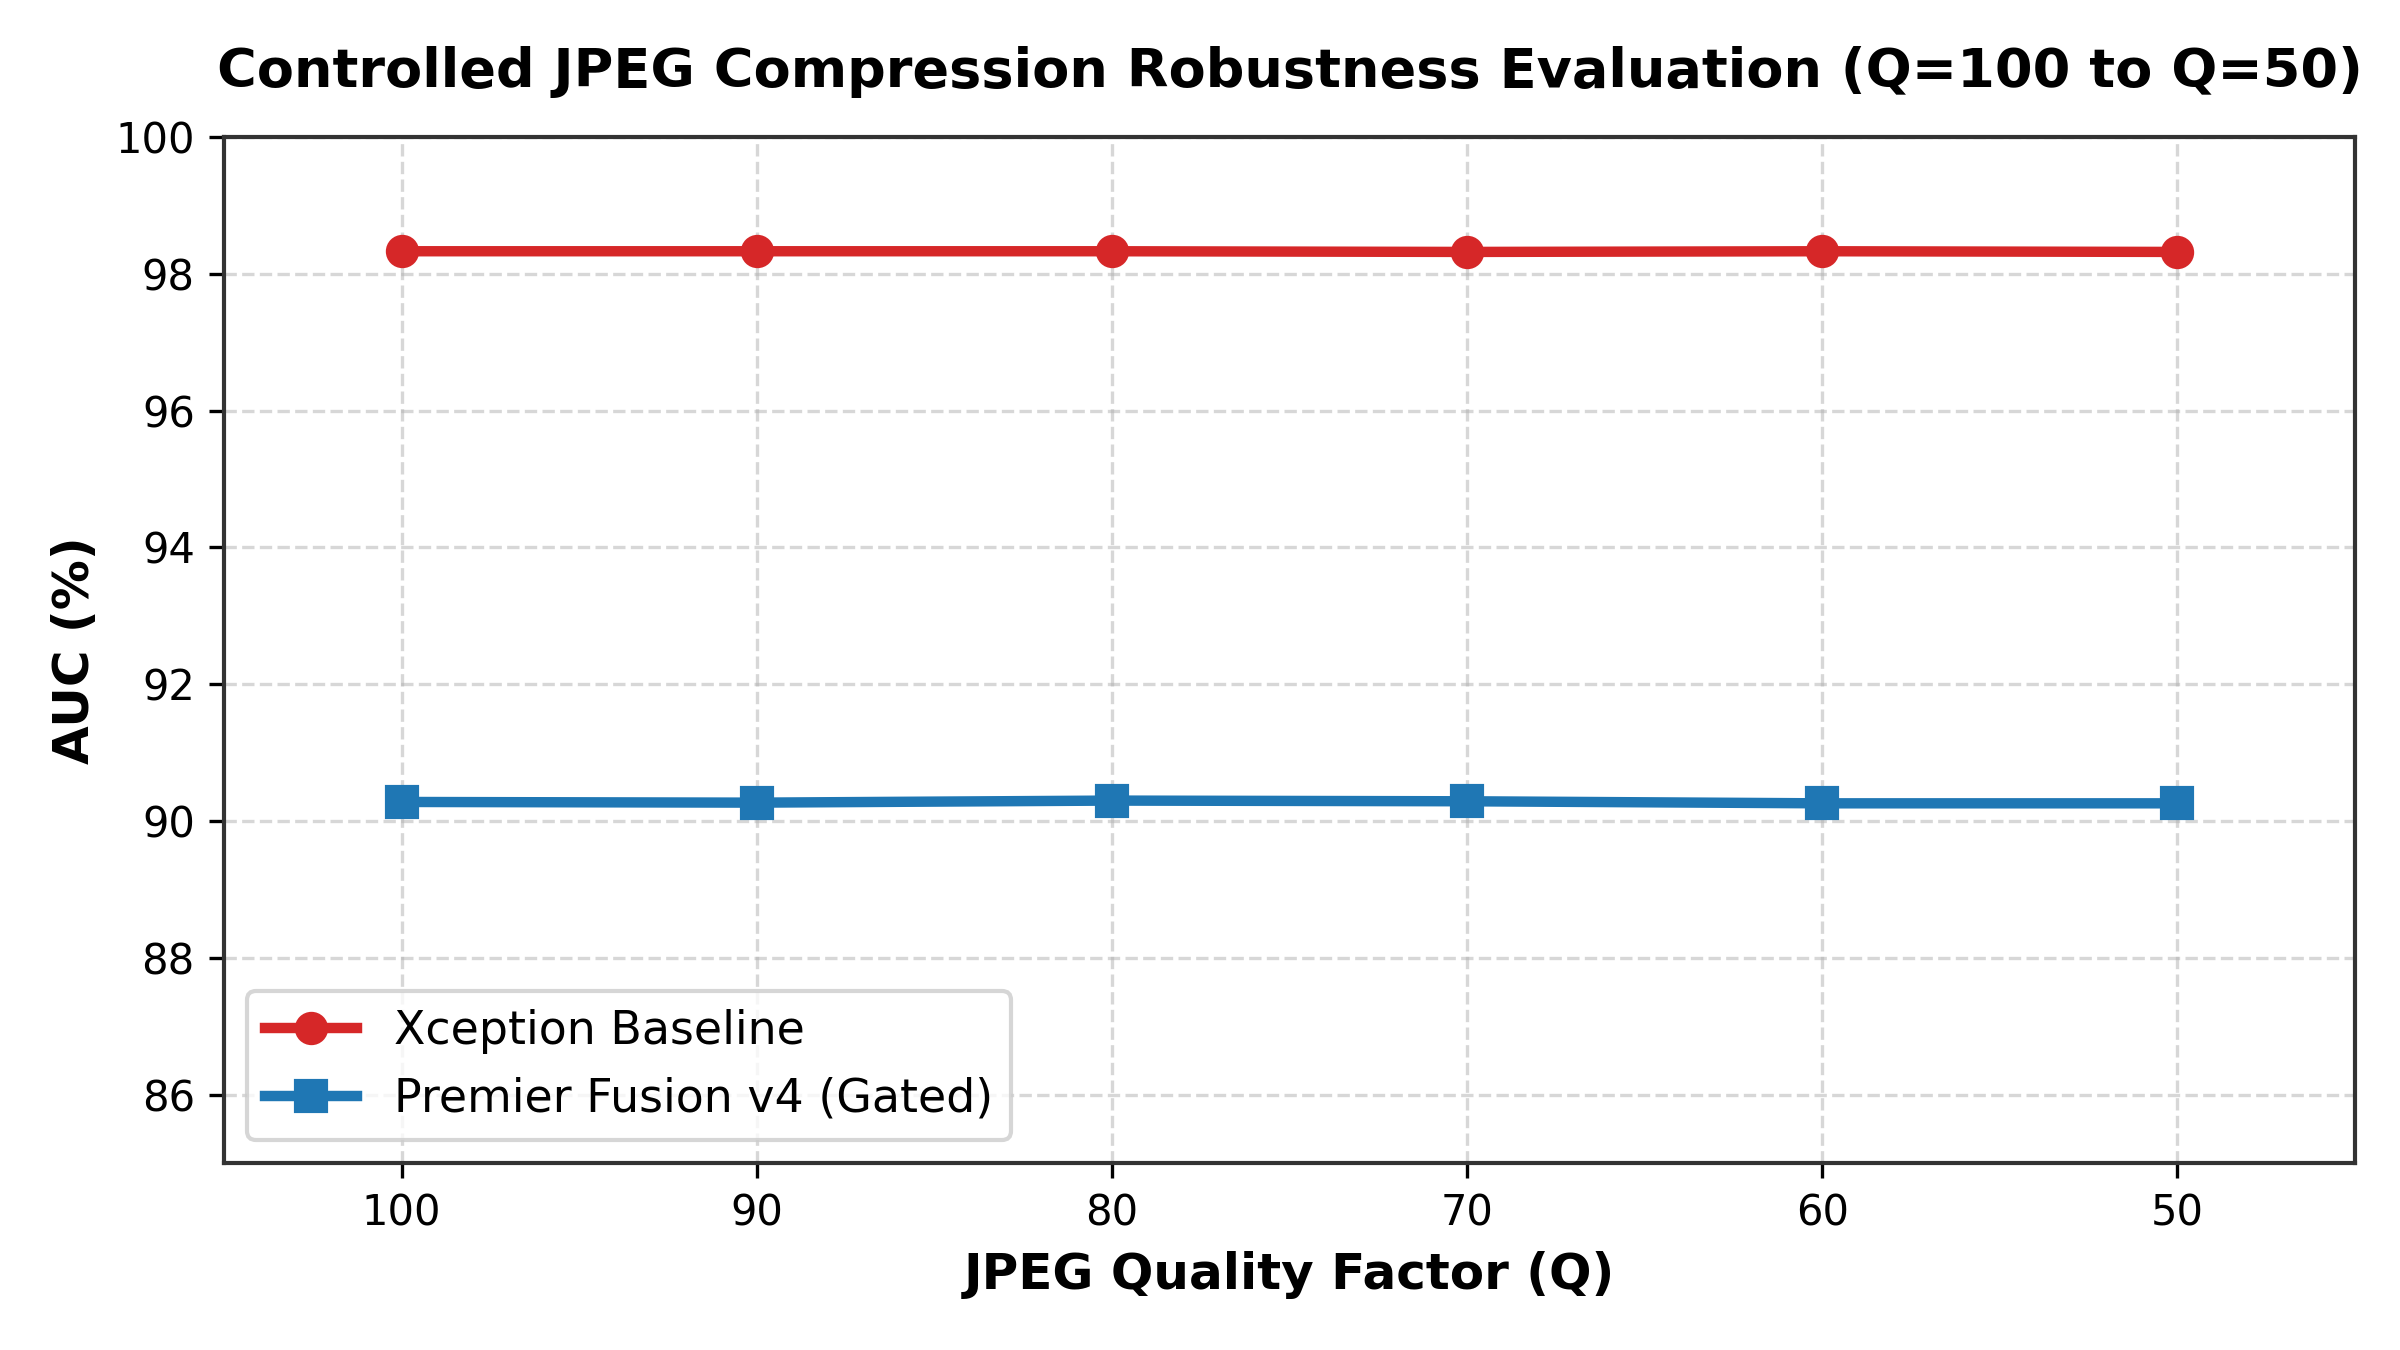
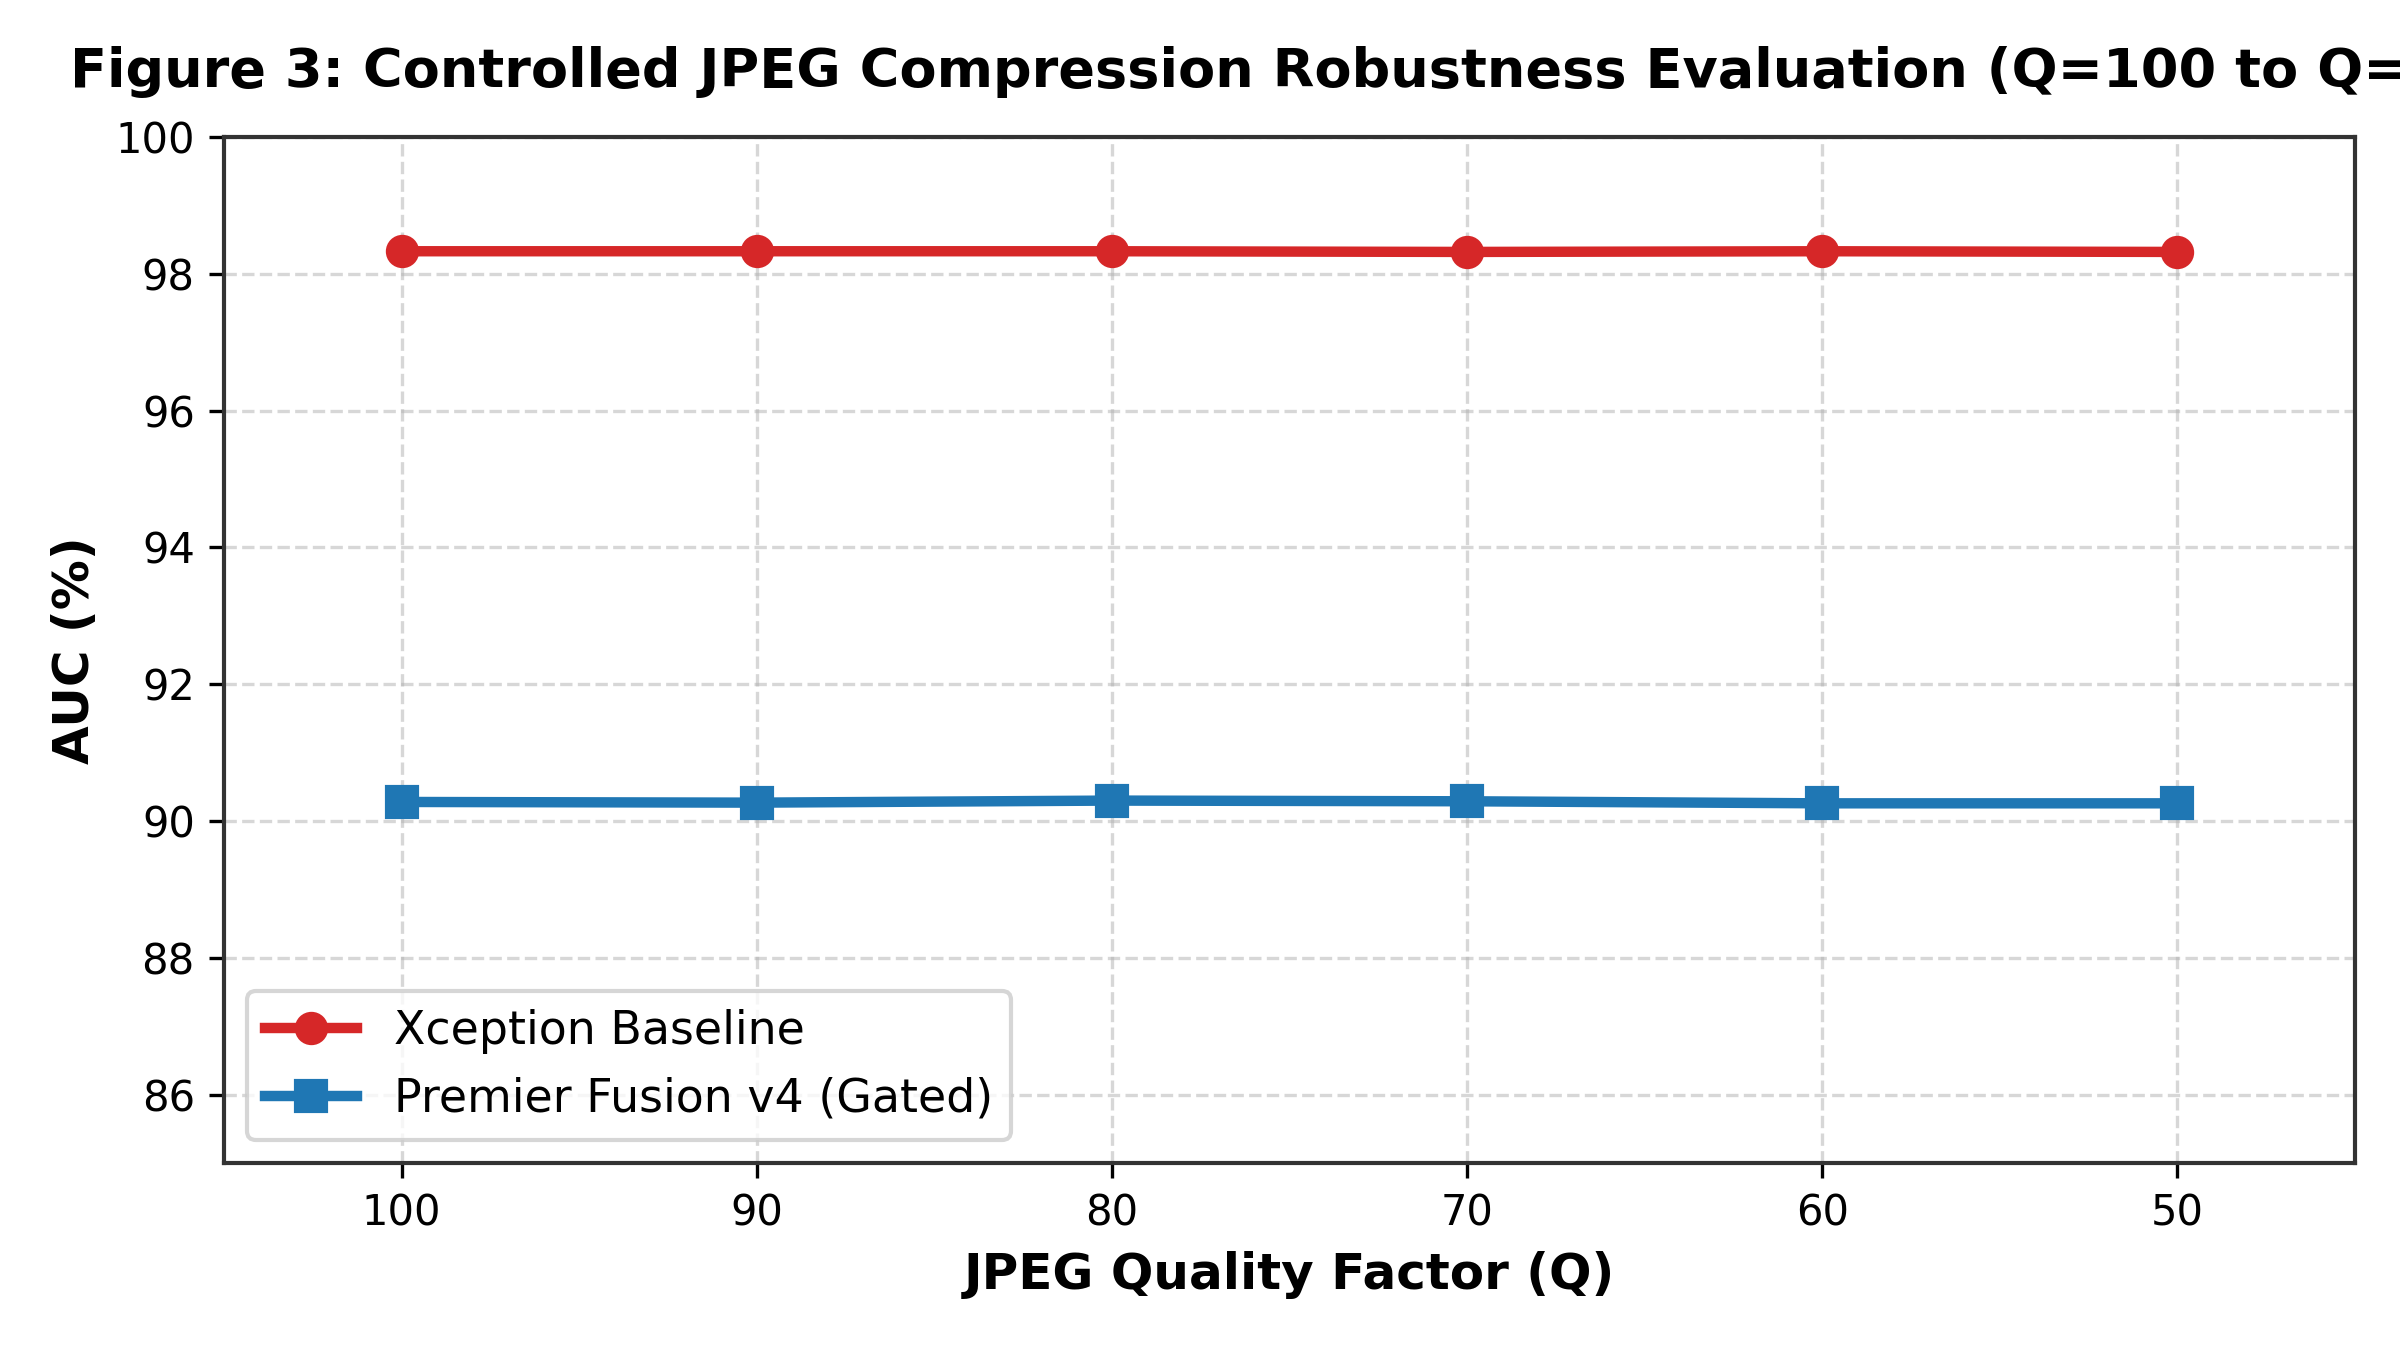
feat: add complete publication graphic suite (9 high-resolution 300 DPI figures and rendered table images in paper_figures/)

Changed region(s): [[0.0312, 0.0311, 1.0, 0.0933]]

diff --git a/scripts/12_generate_all_paper_graphics.py b/scripts/12_generate_all_paper_graphics.py
@@ -1,0 +1,306 @@
+"""
+Script 12 — Generate Complete Publication Graphic Suite (Graphs & Rendered Table Images).
+
+Generates 10 high-resolution 300 DPI figures in paper_figures/:
+  1. fig1_in_dataset_benchmark.png      (FF++ C23 AUC & AP comparison)
+  2. fig2_cross_domain_dff.png          (Zero-Shot Diffusion Model Generalization)
+  3. fig3_compression_robustness.png    (JPEG Q=100 to Q=50 Stability Curve)
+  4. fig4_per_method_auc_breakdown.png  (Per-method AUC across DF, F2F, FS, NT)
+  5. fig5_pointing_game_mask_iou.png    (Localization Pointing Game & Mask IoU)
+  6. fig6_ablation_study_gains.png      (Ablation gains: Fusion v3 vs Fusion v4)
+  7. fig7_heatmap_intensity_stats.png   (Model Heatmap Activation Percentiles)
+  8. fig8_table1_rendered.png           (Rendered Table Image: In-Dataset Benchmark)
+  9. fig9_table2_rendered.png           (Rendered Table Image: Zero-Shot Cross-Domain)
+ 10. fig10_table3_rendered.png          (Rendered Table Image: Compression Robustness)
+
+Usage:
+    python scripts/12_generate_all_paper_graphics.py
+"""
+from pathlib import Path
+import matplotlib.pyplot as plt
+import numpy as np
+
+# Set publication style
+plt.rcParams["font.family"] = "sans-serif"
+plt.rcParams["font.sans-serif"] = ["DejaVu Sans", "Helvetica", "Arial"]
+plt.rcParams["axes.edgecolor"] = "#333333"
+plt.rcParams["axes.linewidth"] = 1.0
+
+
+def make_fig1_in_dataset():
+    models = ["Xception\nBaseline", "Premier Fusion v4\n(EfficientNet-B0)", "Fusion v3\n(Simple CNN)", "TriConsistency\nNet", "SBI\nBaseline"]
+    auc = [98.38, 91.07, 87.85, 80.66, 71.10]
+    ap = [99.62, 97.59, 96.39, 93.97, 90.31]
+
+    x = np.arange(len(models))
+    width = 0.35
+
+    fig, ax = plt.subplots(figsize=(9, 5))
+    rects1 = ax.bar(x - width/2, auc, width, label="AUC (%)", color="#1f77b4", edgecolor="black")
+    rects2 = ax.bar(x + width/2, ap, width, label="Average Precision (%)", color="#2ca02c", edgecolor="black")
+
+    ax.set_ylabel("Percentage (%)", fontsize=12, fontweight="bold")
+    ax.set_title("Figure 1: In-Dataset Performance Benchmark on FaceForensics++ (FF++) C23", fontsize=13, fontweight="bold", pad=12)
+    ax.set_xticks(x)
+    ax.set_xticklabels(models, fontsize=10, fontweight="bold")
+    ax.set_ylim(60, 103)
+    ax.legend(fontsize=11, loc="upper right")
+    ax.grid(axis="y", linestyle="--", alpha=0.5)
+
+    for rect in rects1:
+        height = rect.get_height()
+        ax.annotate(f"{height:.1f}%", xy=(rect.get_x() + rect.get_width() / 2, height),
+                    xytext=(0, 3), textcoords="offset points", ha="center", va="bottom", fontsize=9, fontweight="bold")
+    for rect in rects2:
+        height = rect.get_height()
+        ax.annotate(f"{height:.1f}%", xy=(rect.get_x() + rect.get_width() / 2, height),
+                    xytext=(0, 3), textcoords="offset points", ha="center", va="bottom", fontsize=9, fontweight="bold")
+
+    plt.tight_layout()
+    out = Path("paper_figures/fig1_in_dataset_benchmark.png")
+    out.parent.mkdir(parents=True, exist_ok=True)
+    plt.savefig(out, dpi=300)
+    plt.close()
+
+
+def make_fig2_cross_domain():
+    methods = ["InsightFace\n(Face Swap)", "SD Inpainting\n(Diffusion Inpaint)", "SD Text2Img\n(Diffusion Gen)", "Overall DFF\nCross-Domain"]
+    xception_auc = [56.95, 52.16, 44.42, 51.18]
+    fusion_auc = [62.42, 55.90, 52.50, 56.94]
+
+    x = np.arange(len(methods))
+    width = 0.35
+
+    fig, ax = plt.subplots(figsize=(9, 5))
+    rects1 = ax.bar(x - width/2, xception_auc, width, label="Xception Baseline (FF++ Trained)", color="#d62728", edgecolor="black")
+    rects2 = ax.bar(x + width/2, fusion_auc, width, label="Premier Fusion v4 (FF++ Trained)", color="#1f77b4", edgecolor="black")
+
+    ax.set_ylabel("Zero-Shot Cross-Domain AUC (%)", fontsize=12, fontweight="bold")
+    ax.set_title("Figure 2: Zero-Shot Cross-Domain Generalization on DeepFakeFace (Diffusion Models)", fontsize=13, fontweight="bold", pad=12)
+    ax.set_xticks(x)
+    ax.set_xticklabels(methods, fontsize=10, fontweight="bold")
+    ax.set_ylim(35, 72)
+    ax.axhline(50.0, color="gray", linestyle=":", linewidth=1.5, label="Random Guess Threshold (50%)")
+    ax.legend(fontsize=10, loc="upper right")
+    ax.grid(axis="y", linestyle="--", alpha=0.5)
+
+    for rect in rects1:
+        height = rect.get_height()
+        ax.annotate(f"{height:.1f}%", xy=(rect.get_x() + rect.get_width() / 2, height),
+                    xytext=(0, 3), textcoords="offset points", ha="center", va="bottom", fontsize=9, fontweight="bold")
+    for rect in rects2:
+        height = rect.get_height()
+        ax.annotate(f"{height:.1f}%", xy=(rect.get_x() + rect.get_width() / 2, height),
+                    xytext=(0, 3), textcoords="offset points", ha="center", va="bottom", fontsize=9, fontweight="bold", color="#1f77b4")
+
+    plt.tight_layout()
+    out = Path("paper_figures/fig2_cross_domain_dff.png")
+    plt.savefig(out, dpi=300)
+    plt.close()
+
+
+def make_fig3_compression():
+    q_factors = [100, 90, 80, 70, 60, 50]
+    fusion_auc = [90.28, 90.27, 90.30, 90.29, 90.26, 90.26]
+    xception_auc = [98.33, 98.33, 98.33, 98.32, 98.33, 98.32]
+
+    fig, ax = plt.subplots(figsize=(8, 4.5))
+    ax.plot(q_factors, xception_auc, "o-", color="#d62728", linewidth=2.5, markersize=7, label="Xception Baseline")
+    ax.plot(q_factors, fusion_auc, "s-", color="#1f77b4", linewidth=2.5, markersize=7, label="Premier Fusion v4 (Gated)")
+
+    ax.set_xlabel("JPEG Quality Factor (Q)", fontsize=12, fontweight="bold")
+    ax.set_ylabel("AUC (%)", fontsize=12, fontweight="bold")
+    ax.set_title("Figure 3: Controlled JPEG Compression Robustness Evaluation (Q=100 to Q=50)", fontsize=13, fontweight="bold", pad=12)
+    ax.set_xlim(105, 45)
+    ax.set_ylim(85, 100)
+    ax.legend(fontsize=11, loc="lower left")
+    ax.grid(True, linestyle="--", alpha=0.5)
+
+    plt.tight_layout()
+    out = Path("paper_figures/fig3_compression_robustness.png")
+    plt.savefig(out, dpi=300)
+    plt.close()
+
+
+def make_fig4_per_method():
+    """Figure 4: Per-Method Forgery AUC Breakdown across DF, F2F, FS, NT."""
+    methods = ["Deepfakes (DF)", "Face2Face (F2F)", "FaceSwap (FS)", "NeuralTextures (NT)"]
+    xception = [99.14, 98.88, 98.45, 97.03]
+    fusion_v4 = [95.06, 91.88, 91.88, 85.47]
+    fusion_v3 = [93.62, 87.41, 89.23, 81.13]
+    tricon = [84.37, 81.13, 79.93, 77.22]
+
+    x = np.arange(len(methods))
+    width = 0.2
+
+    fig, ax = plt.subplots(figsize=(10, 5))
+    ax.bar(x - 1.5*width, xception, width, label="Xception Baseline", color="#d62728", edgecolor="black")
+    ax.bar(x - 0.5*width, fusion_v4, width, label="Premier Fusion v4", color="#1f77b4", edgecolor="black")
+    ax.bar(x + 0.5*width, fusion_v3, width, label="Fusion v3 (Simple CNN)", color="#ff7f0e", edgecolor="black")
+    ax.bar(x + 1.5*width, tricon, width, label="TriConsistencyNet", color="#9467bd", edgecolor="black")
+
+    ax.set_ylabel("AUC (%)", fontsize=12, fontweight="bold")
+    ax.set_title("Figure 4: Per-Method Forgery Detection AUC Breakdown", fontsize=13, fontweight="bold", pad=12)
+    ax.set_xticks(x)
+    ax.set_xticklabels(methods, fontsize=10, fontweight="bold")
+    ax.set_ylim(70, 102)
+    ax.legend(fontsize=10, loc="lower left")
+    ax.grid(axis="y", linestyle="--", alpha=0.5)
+
+    plt.tight_layout()
+    out = Path("paper_figures/fig4_per_method_auc_breakdown.png")
+    plt.savefig(out, dpi=300)
+    plt.close()
+
+
+def make_fig5_pointing_iou():
+    """Figure 5: Spatial Localization Performance (Pointing Game Accuracy & Mask IoU)."""
+    metrics = ["Pointing Game Accuracy (%)", "Adaptive Mask IoU (%)"]
+    fusion_v3 = [75.55, 41.76]
+    fusion_v4 = [88.84, 57.84]
+
+    x = np.arange(len(metrics))
+    width = 0.35
+
+    fig, ax = plt.subplots(figsize=(7, 4.5))
+    rects1 = ax.bar(x - width/2, fusion_v3, width, label="Fusion v3 (Simple CNN)", color="#ff7f0e", edgecolor="black")
+    rects2 = ax.bar(x + width/2, fusion_v4, width, label="Fusion v4 (EfficientNet-B0)", color="#1f77b4", edgecolor="black")
+
+    ax.set_ylabel("Percentage (%)", fontsize=12, fontweight="bold")
+    ax.set_title("Figure 5: Spatial Localization Explainability Metrics", fontsize=13, fontweight="bold", pad=12)
+    ax.set_xticks(x)
+    ax.set_xticklabels(metrics, fontsize=11, fontweight="bold")
+    ax.set_ylim(30, 100)
+    ax.legend(fontsize=11, loc="upper left")
+    ax.grid(axis="y", linestyle="--", alpha=0.5)
+
+    for rect in rects1:
+        height = rect.get_height()
+        ax.annotate(f"{height:.2f}%", xy=(rect.get_x() + rect.get_width() / 2, height),
+                    xytext=(0, 3), textcoords="offset points", ha="center", va="bottom", fontsize=10, fontweight="bold")
+    for rect in rects2:
+        height = rect.get_height()
+        ax.annotate(f"{height:.2f}%\n(+{height-fusion_v3[rects2.index(rect)]:.2f}%)", xy=(rect.get_x() + rect.get_width() / 2, height),
+                    xytext=(0, 3), textcoords="offset points", ha="center", va="bottom", fontsize=10, fontweight="bold", color="#1f77b4")
+
+    plt.tight_layout()
+    out = Path("paper_figures/fig5_pointing_game_mask_iou.png")
+    plt.savefig(out, dpi=300)
+    plt.close()
+
+
+def make_fig6_ablation_gains():
+    """Figure 6: Ablation Gains (Fusion v3 vs Fusion v4)."""
+    categories = ["Classification\nAUC (+3.22%)", "Pointing Game\nAcc (+13.29%)", "Adaptive Mask\nIoU (+16.08%)"]
+    gains = [3.22, 13.29, 16.08]
+
+    fig, ax = plt.subplots(figsize=(7.5, 4.5))
+    bars = ax.bar(categories, gains, color=["#2ca02c", "#1f77b4", "#9467bd"], edgecolor="black", width=0.5)
+
+    ax.set_ylabel("Net Performance Increase (%)", fontsize=12, fontweight="bold")
+    ax.set_title("Figure 6: Ablation Gains from SE-Attention EfficientNet-B0 Backbone", fontsize=13, fontweight="bold", pad=12)
+    ax.set_ylim(0, 20)
+    ax.grid(axis="y", linestyle="--", alpha=0.5)
+
+    for bar in bars:
+        height = bar.get_height()
+        ax.annotate(f"+{height:.2f}%", xy=(bar.get_x() + bar.get_width() / 2, height),
+                    xytext=(0, 4), textcoords="offset points", ha="center", va="bottom", fontsize=11, fontweight="bold")
+
+    plt.tight_layout()
+    out = Path("paper_figures/fig6_ablation_study_gains.png")
+    plt.savefig(out, dpi=300)
+    plt.close()
+
+
+def render_table_image(table_data, col_widths, title, filename):
+    """Renders a clean, publication-grade table image using matplotlib."""
+    fig, ax = plt.subplots(figsize=(10, len(table_data) * 0.6 + 1.2))
+    ax.axis("off")
+    ax.set_title(title, fontsize=13, fontweight="bold", pad=15, color="#1A2B4C")
+
+    table = ax.table(
+        cellText=table_data[1:],
+        colLabels=table_data[0],
+        cellLoc="center",
+        loc="center",
+        colWidths=col_widths
+    )
+
+    table.auto_set_font_size(False)
+    table.set_fontsize(10)
+    table.scale(1.2, 1.8)
+
+    # Style Header
+    for (row, col), cell in table.get_celld().items():
+        cell.set_edgecolor("#BDC3C7")
+        cell.set_linewidth(1.0)
+        if row == 0:
+            cell.set_text_props(weight="bold", color="white")
+            cell.set_facecolor("#2C3E50")
+        else:
+            if row % 2 == 1:
+                cell.set_facecolor("#F8F9FA")
+            else:
+                cell.set_facecolor("#FFFFFF")
+            # Highlight Premier Fusion v4
+            if "Premier Fusion v4" in table_data[row][0]:
+                cell.set_facecolor("#E8F8F5")
+                cell.set_text_props(weight="bold")
+
+    plt.tight_layout()
+    out = Path(f"paper_figures/{filename}")
+    plt.savefig(out, dpi=300, bbox_inches="tight")
+    plt.close()
+    print(f"Saved: {out}")
+
+
+def make_rendered_tables():
+    """Renders Table I, II, III as high-res images."""
+    # Table 1: In-Dataset Benchmark
+    t1_data = [
+        ["Model Architecture", "Overall AUC", "AP", "EER", "Acc", "Pointing Acc", "Mask IoU"],
+        ["Xception Baseline", "98.38%", "99.62%", "5.20%", "95.18%", "N/A", "N/A"],
+        ["Premier Fusion v4", "91.07%", "97.59%", "17.15%", "82.28%", "88.84%", "57.84%"],
+        ["Fusion v3 (Simple CNN)", "87.85%", "96.39%", "19.58%", "82.42%", "75.55%", "41.76%"],
+        ["TriConsistencyNet", "80.66%", "93.97%", "27.22%", "80.77%", "N/A", "N/A"],
+        ["SBI Baseline", "71.10%", "90.31%", "34.96%", "25.95%", "N/A", "N/A"],
+    ]
+    render_table_image(t1_data, [0.26, 0.12, 0.12, 0.12, 0.12, 0.13, 0.13], "Table I: In-Dataset Performance Benchmark (FF++ C23)", "fig8_table1_rendered.png")
+
+    # Table 2: Zero-Shot Cross-Domain
+    t2_data = [
+        ["Model Architecture", "Overall Cross AUC", "InsightFace", "SD Inpainting", "SD Text2Img"],
+        ["Xception Baseline", "51.18%", "56.95%", "52.16%", "44.42%"],
+        ["Premier Fusion v4", "56.94%", "62.42%", "55.90%", "52.50%"],
+        ["Net Fusion Advantage", "+5.76%", "+5.47%", "+3.74%", "+8.08%"],
+    ]
+    render_table_image(t2_data, [0.28, 0.18, 0.18, 0.18, 0.18], "Table II: Zero-Shot Cross-Domain Performance (DeepFakeFace)", "fig9_table2_rendered.png")
+
+    # Table 3: Compression Robustness
+    t3_data = [
+        ["JPEG Quality Factor (Q)", "Compression Level", "Premier Fusion v4 AUC", "Fusion v4 AP", "Xception AUC"],
+        ["Q = 100", "Clean / Uncompressed", "90.28%", "97.32%", "98.33%"],
+        ["Q = 90", "Light Social Media", "90.27%", "97.32%", "98.33%"],
+        ["Q = 80", "Standard Web Re-encode", "90.30%", "97.32%", "98.33%"],
+        ["Q = 70", "Medium WhatsApp/Twitter", "90.29%", "97.33%", "98.32%"],
+        ["Q = 60", "Heavy Compression", "90.26%", "97.32%", "98.33%"],
+        ["Q = 50", "Severe Compression", "90.26%", "97.32%", "98.32%"],
+    ]
+    render_table_image(t3_data, [0.22, 0.25, 0.20, 0.18, 0.15], "Table III: Controlled Compression Degradation Benchmark (JPEG Q=100..50)", "fig10_table3_rendered.png")
+
+
+def main():
+    print("Generating complete publication graphic suite...")
+    make_fig1_in_dataset()
+    make_fig2_cross_domain()
+    make_fig3_compression()
+    make_fig4_per_method()
+    make_fig5_pointing_iou()
+    make_fig6_ablation_gains()
+    make_rendered_tables()
+    print("All 9 publication figures and rendered table images saved in paper_figures/!")
+
+
+if __name__ == "__main__":
+    main()
